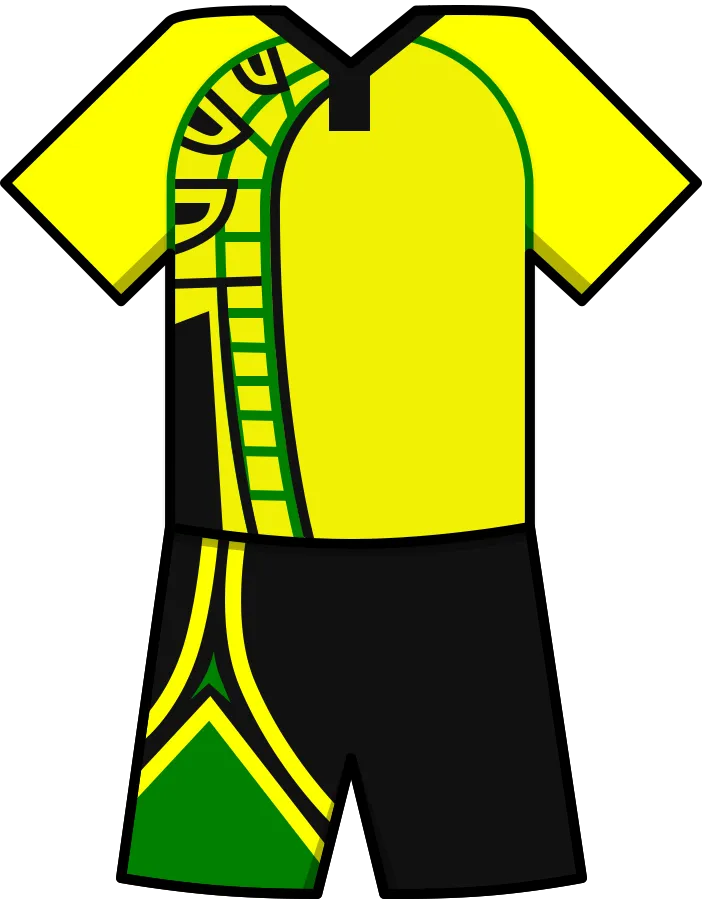
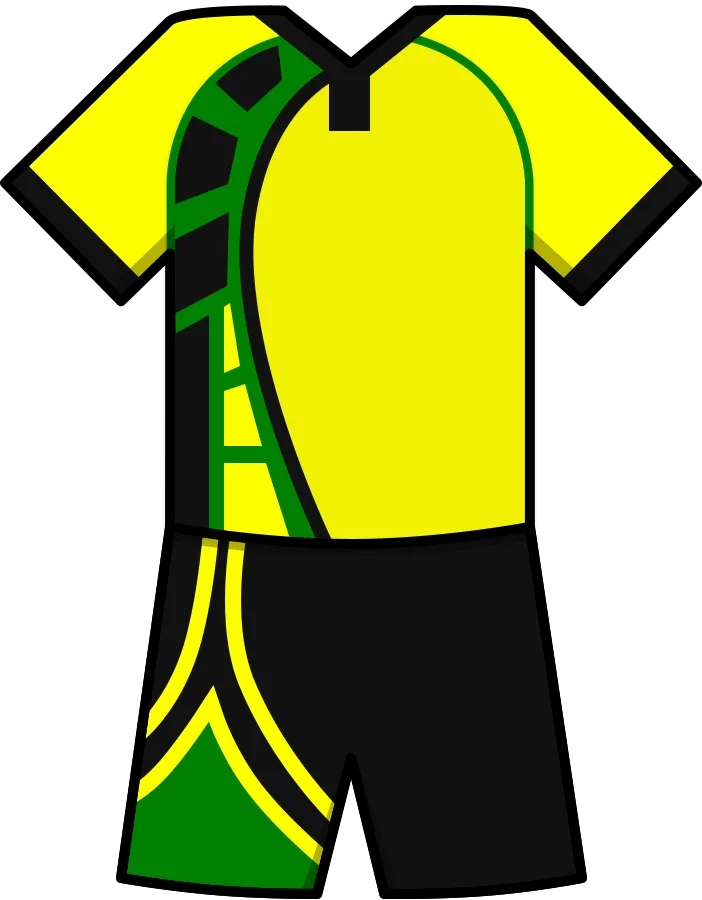
Add Jamaica deck cover

diff --git a/src/tests/teamCover.test.ts b/src/tests/teamCover.test.ts
@@ -71,7 +71,7 @@ describe('team cover assets', () => {
     expect(hasManualTeamCover('gb-eng')).toBe(true);
     expect(hasManualTeamCover('none')).toBe(false);
     expect(hasManualTeamCover('unknown')).toBe(false);
-    expect(hasManualTeamCover('jm')).toBe(false);
+    expect(hasManualTeamCover('jm')).toBe(true);
 
     const textures: TextureLookup = {
       exists: (textureKey) => textureKey === 'cover-none'
@@ -97,9 +97,9 @@ describe('team cover assets', () => {
       usedFallback: true
     });
     expect(resolveTeamCoverAsset('jm')).toEqual({
-      textureKey: 'cover-none',
-      path: 'covers/none.webp',
-      usedFallback: true
+      textureKey: 'cover-jm',
+      path: 'covers/jm.webp',
+      usedFallback: false
     });
   });
 

diff --git a/src/tests/teamKits.test.ts b/src/tests/teamKits.test.ts
@@ -38,6 +38,7 @@ const EXPLICIT_SHIRT_NUMBER_COLOR_OVERRIDES = new Map<string, string>([
   ['ec', '#FFFFFF'],
   ['gr', '#0D5EAF'],
   ['hr', '#0033A0'],
+  ['jm', '#000000'],
   ['ma', '#FFFFFF'],
   ['ng', '#000000'],
   ['no', '#FFFFFF'],
@@ -195,10 +196,10 @@ describe('team kit data contract', () => {
       flagCode: 'jm',
       assetKey: 'kit-jm',
       path: 'kits/images/jm.webp',
-      primaryColor: '#009B3A',
-      secondaryColor: '#FED100',
+      primaryColor: '#FED100',
+      secondaryColor: '#009B3A',
       accentColor: '#000000',
-      shirtNumberColor: '#FED100'
+      shirtNumberColor: '#000000'
     });
     expect(getTeamKitStyle('no')).toMatchObject({
       flagCode: 'no',

diff --git a/src/tests/jamaicaTeam.test.ts b/src/tests/jamaicaTeam.test.ts
@@ -31,15 +31,15 @@ describe('Jamaica national team integration', () => {
     expect(validateSquad(squad)).toEqual({ ok: true, issues: [] });
   });
 
-  it('uses the manual Jamaica kit and the safe cover fallback', () => {
+  it('uses the manual Jamaica kit and team cover', () => {
     expect(resolveTeamKitAsset('jm')).toMatchObject({
       assetKey: 'kit-jm',
-      numberColor: '#FED100'
+      numberColor: '#000000'
     });
     expect(resolveTeamCoverAsset('jm')).toEqual({
-      textureKey: 'cover-none',
-      path: 'covers/none.webp',
-      usedFallback: true
+      textureKey: 'cover-jm',
+      path: 'covers/jm.webp',
+      usedFallback: false
     });
   });
 });

diff --git a/src/data/teamKits.ts b/src/data/teamKits.ts
@@ -107,7 +107,7 @@ const TEAM_KIT_STYLE_ROWS = [
   ['ie', '#169B62', '#FFFFFF', '#FFFFFF', undefined],
   ['it', '#0066CC', '#FFFFFF', '#FFFFFF', undefined],
   ['ci', '#F77F00', '#009E60', '#006B3F', '#FFFFFF'],
-  ['jm', '#009B3A', '#FED100', '#000000', undefined],
+  ['jm', '#FED100', '#009B3A', '#000000', undefined, '#000000'],
   ['jp', '#003478', '#FFFFFF', '#FFFFFF', undefined],
   ['kz', '#00AFCA', '#FEC50C', '#003B5C', '#FFFFFF'],
   ['ml', '#FCD116', '#14B53A', '#007A33', '#FFFFFF'],

diff --git a/src/assets/teamCover.ts b/src/assets/teamCover.ts
@@ -42,6 +42,7 @@ export const AVAILABLE_TEAM_COVER_FLAG_CODES: readonly string[] = [
   'iq',
   'ir',
   'it',
+  'jm',
   'jp',
   'kr',
   'kz',
